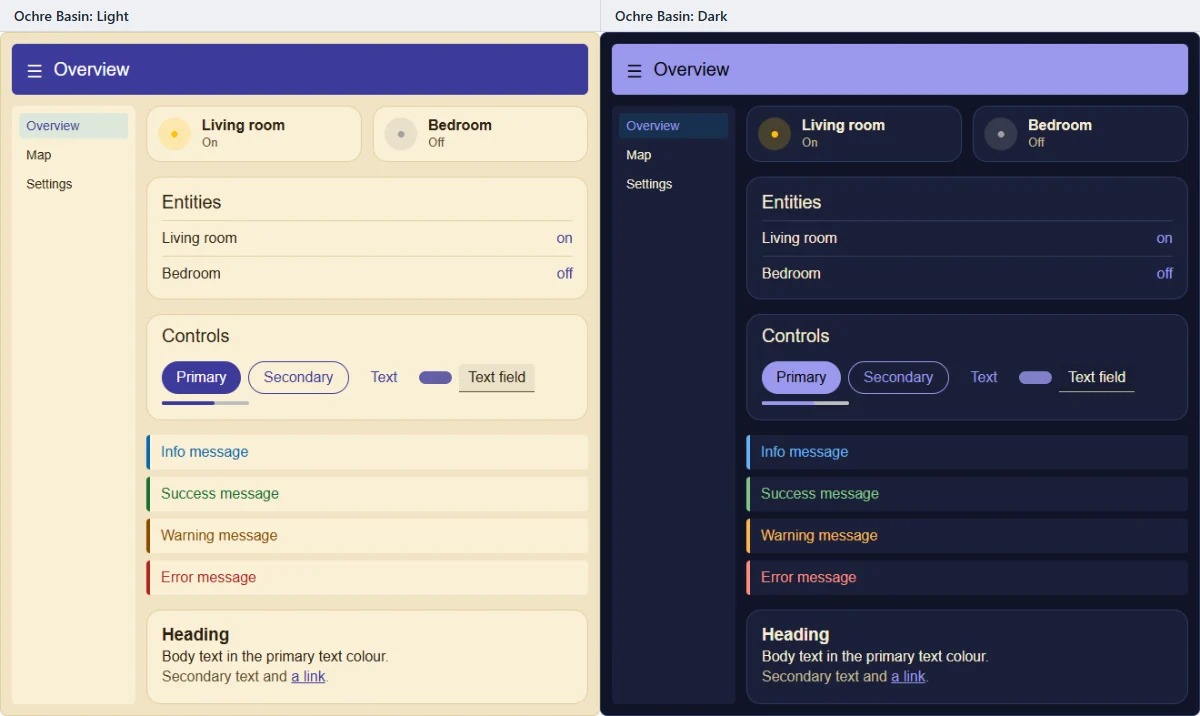
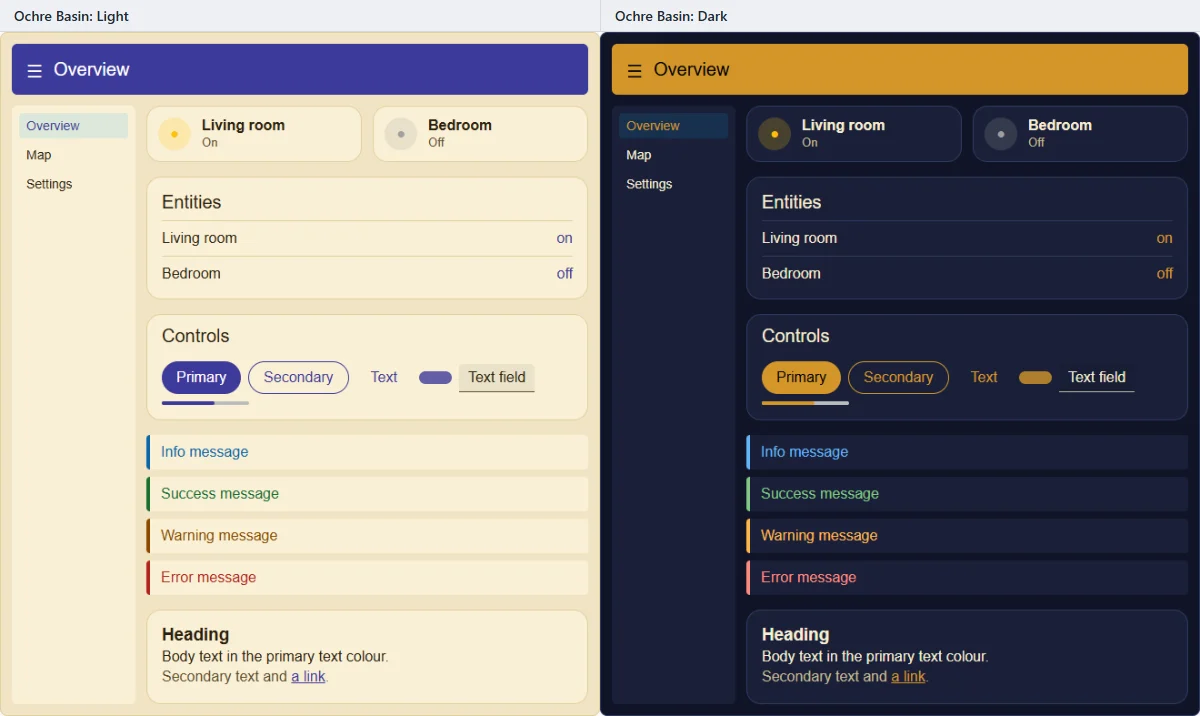
presets palette fix round 1: distinct dark primaries, colours match blurbs, 6 example images re-shot (presets chunk 20,256 B)

diff --git a/src/theme-editor/presets/library.ts b/src/theme-editor/presets/library.ts
@@ -183,13 +183,13 @@ const PRESETS: ThemePreset[] = [
[19 lines of base64/hex data omitted]

diff --git a/documentation/themes/examples/README.md b/documentation/themes/examples/README.md
@@ -361,13 +361,13 @@ Ultramarine blue with an orange spark, sleek and futuristic.
 
 ## Deep Survey
 
-Clean off-white panels with a navy ink blue and a burnt orange accent.
+Off-white panels, burnt orange accent: navy ink by day, denim blue at night.
 
 ![Deep Survey preview, light and dark modes side by side](images/deep-survey.webp)
 
 ## Dust Duel
 
-Warm desert sand with indigo blue and a red accent.
+Desert sand with a red accent: indigo blue by day, sand-gold by night.
 
 ![Dust Duel preview, light and dark modes side by side](images/dust-duel.webp)
 
@@ -379,13 +379,13 @@ Weathered teal with worn rust and brass, warm and a little scruffy.
 
 ## Neon Rain
 
-Magenta and cyan neon on a dark city night.
+Hot magenta and electric cyan neon on a dark city night.
 
 ![Neon Rain preview, light and dark modes side by side](images/neon-rain.webp)
 
 ## Ochre Basin
 
-Sun-baked yellow-brown ochre by day, deep indigo night in the dark mode.
+Sun-baked ochre by day; at night an ochre glow on deep indigo.
 
 ![Ochre Basin preview, light and dark modes side by side](images/ochre-basin.webp)
 
